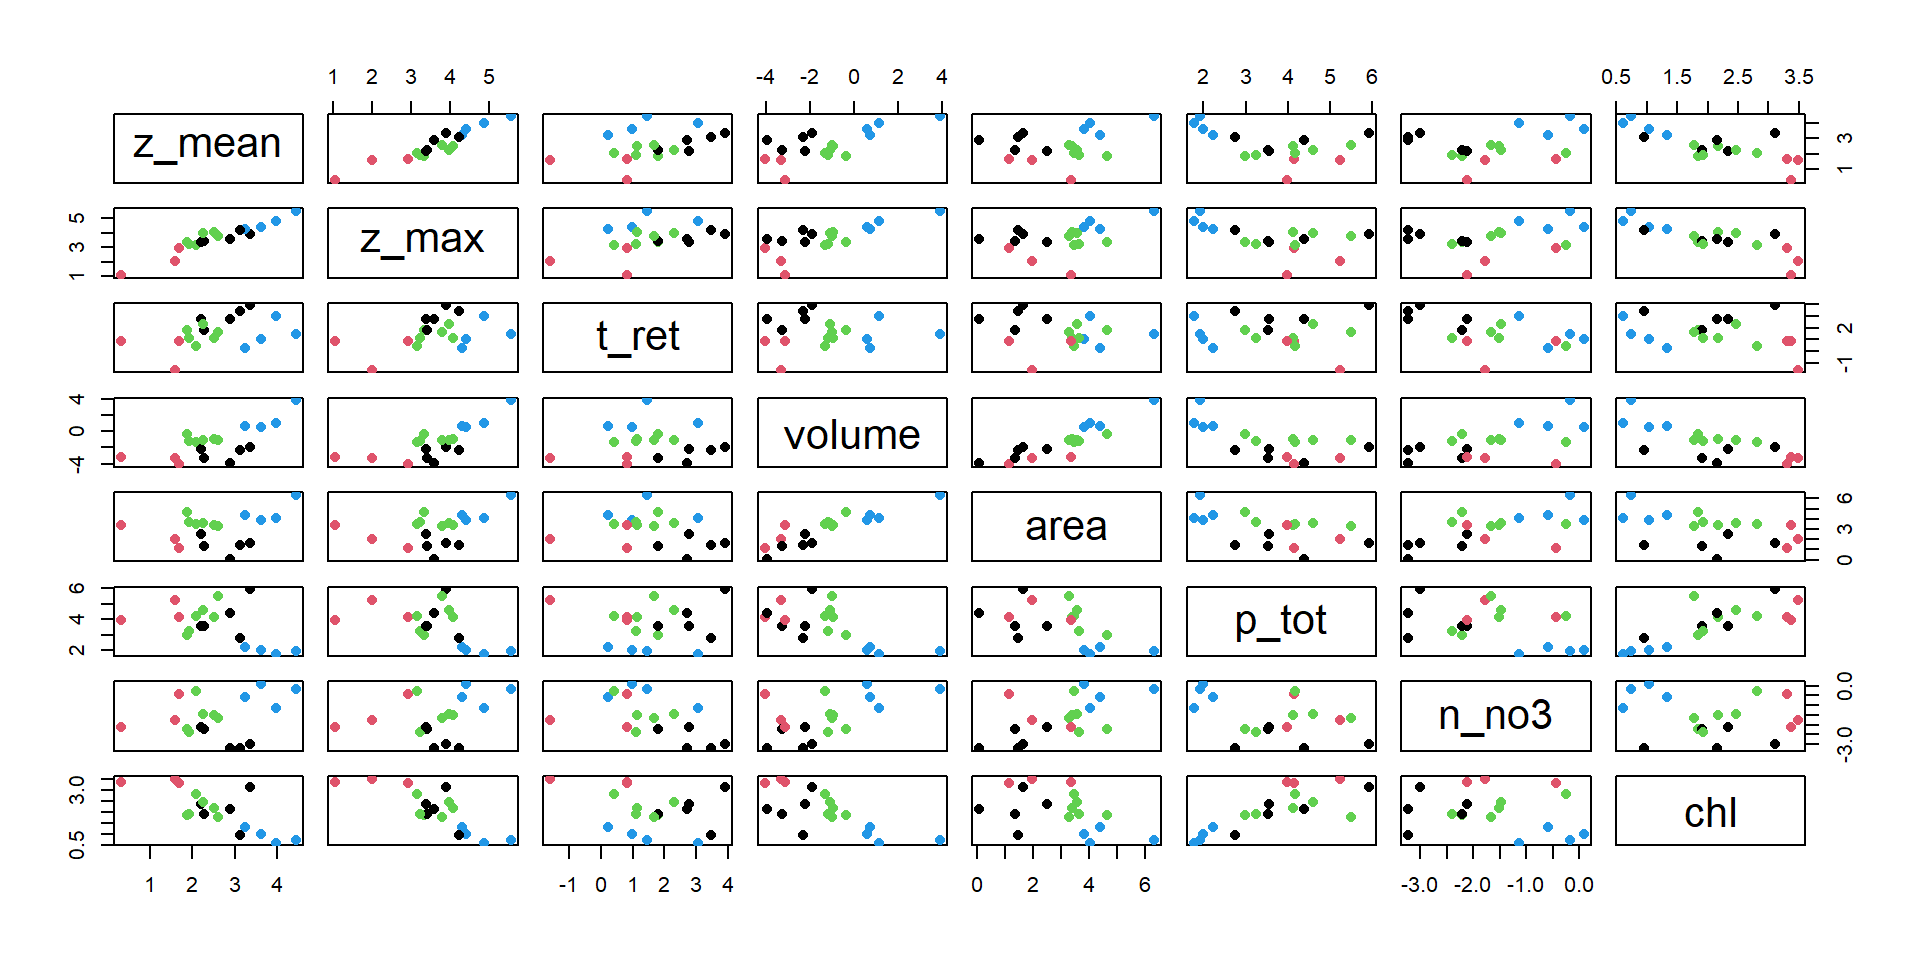
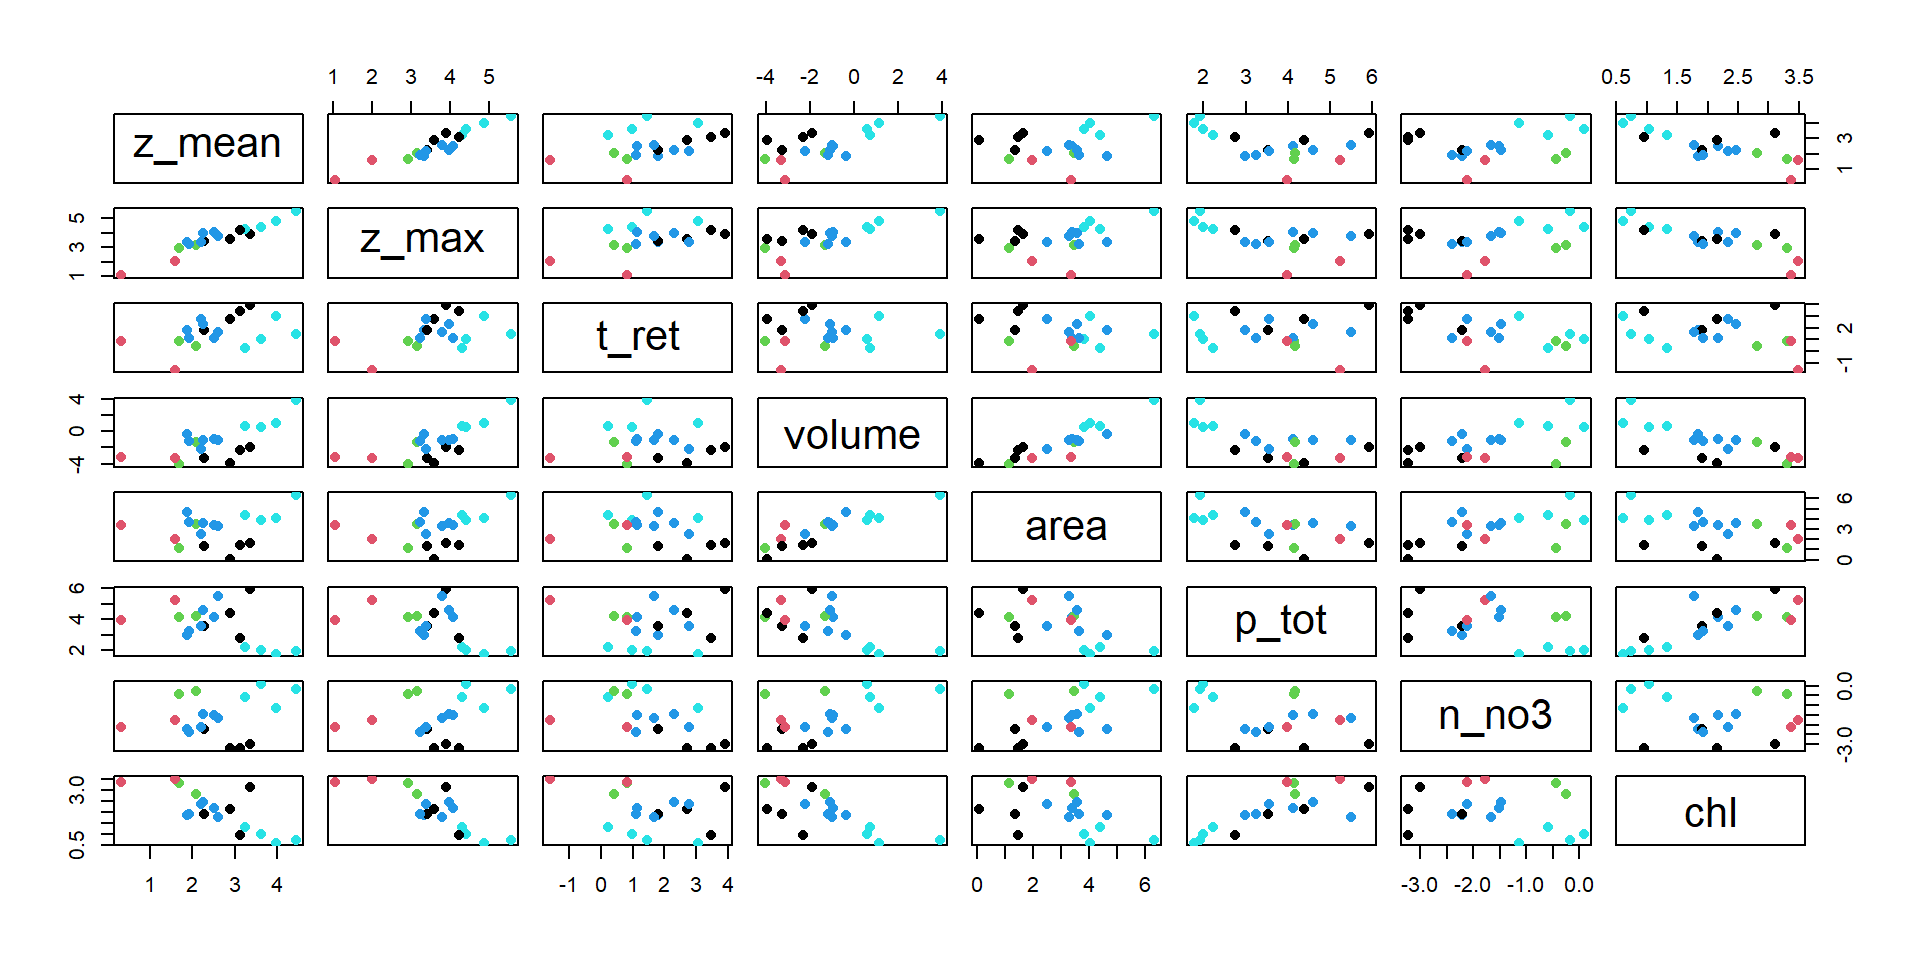
improve formatting

diff --git a/docs/slides/11-multivariate-2.html b/docs/slides/11-multivariate-2.html
@@ -10,7 +10,7 @@
   <meta name="generator" content="quarto-1.2.280">
 
   <meta name="author" content="Thomas Petzoldt">
-  <meta name="dcterms.date" content="2023-11-26">
+  <meta name="dcterms.date" content="2023-11-30">
   <title>Elements of Data Analysis and Statistics - 11-Multivariate methods II</title>
   <meta name="apple-mobile-web-app-capable" content="yes">
   <meta name="apple-mobile-web-app-status-bar-style" content="black-translucent">
@@ -427,7 +427,7 @@ Thomas Petzoldt
 </div>
 </div>
 
-  <p class="date">2023-11-26</p>
+  <p class="date">2023-11-30</p>
 </section>
 <section id="data-sets-and-terms-of-use" class="slide level2">
 <h2>Data sets and terms of use</h2>
@@ -751,7 +751,7 @@ Thomas Petzoldt
 <section id="how-to-analyse-this-kind-of-data" class="slide level2">
 <h2>How to analyse this kind of data?</h2>
 <p><br></p>
-<p>Different approaches</p>
+<p><strong>Different approaches</strong></p>
 <ol type="1">
 <li>Direct interpretation
 <ul>
@@ -1068,7 +1068,7 @@ a^2 + b^2 = c^2 \quad \Rightarrow\quad c = \sqrt{a^2 + b^2} = \sqrt{\Delta x^2 +
 <p>A distance measure is termed metric, if:</p>
 <ol type="1">
 <li><span class="math inline">\(d=0\)</span> applies in the case of equality only, and</li>
-<li>the triangle inequality aapplies.<br> <span class="gray">The indirect route is longer than the direct route</span></li>
+<li>the triangle inequality applies.<br> <span class="gray">The indirect route is longer than the direct route</span></li>
 </ol>
 <p>If one or both of the additional conditions are violated, we speak about <strong>nonmetric</strong> measures and use the term <strong>dissimilarity</strong> instead of distance.</p>
 </section>
@@ -1121,6 +1121,7 @@ a^2 + b^2 = c^2 \quad \Rightarrow\quad c = \sqrt{a^2 + b^2} = \sqrt{\Delta x^2 +
 <section id="common-distance-and-dissimilarity-measures" class="slide level2">
 <h2>Common distance and dissimilarity measures</h2>
 <p><br></p>
+<p><br></p>
 <ul>
 <li><strong>Euclidean</strong> distance: shortest connection between 2 points in space</li>
 <li><strong>Manhattan</strong> distance: around the corner, as in Manhattans grid-like streets</li>
@@ -1133,7 +1134,7 @@ a^2 + b^2 = c^2 \quad \Rightarrow\quad c = \sqrt{a^2 + b^2} = \sqrt{\Delta x^2 +
 </section>
 <section id="distance-and-dissimilarity-of-metric-variables" class="slide level2">
 <h2>Distance and dissimilarity of <strong>metric</strong> variables</h2>
-<p>with <span class="math inline">\(x_{ij}, x_{ik}\)</span> abundance of species <span class="math inline">\(i\)</span> at sites (<span class="math inline">\(j, k\)</span>).</p>
+<p><br></p>
 <p>Euclidean distance:</p>
 <p><span class="math display">\[
 d_{jk} = \sqrt{\sum (x_{ij}-x_{ik})^2}
@@ -1147,6 +1148,9 @@ d_{jk} = \frac{1}{M} \sum\frac{|x_{ij}-x_{ik}|}{\max(x_i)-\min(x_i)}
 <p>Bray-Curtis dissimilarity: <span class="math display">\[
 d_{jk} = \frac{\sum{|x_{ij}-x_{ik}|}}{\sum{(x_{ij}+x_{ik})}}
 \]</span></p>
+<ul>
+<li>with <span class="math inline">\(x_{ij}, x_{ik}\)</span> abundance of species <span class="math inline">\(i\)</span> at sites (<span class="math inline">\(j, k\)</span>).</li>
+</ul>
 </section>
 <section id="distance-and-dissimilarity-of-binary-variables" class="slide level2">
 <h2>Distance and dissimilarity of binary variables</h2>
@@ -1307,12 +1311,13 @@ d_{jk} = \frac{\sum{|x_{ij}-x_{ik}|}}{\sum{(x_{ij}+x_{ik})}}
 <ul>
 <li>works with arbitrary distance measures, e.g.&nbsp;Bray-Curtis dissimilarity</li>
 <li>supported by different packages, e.g.&nbsp;<strong>stats</strong>, <strong>vegan</strong>, <strong>labdsv</strong>, <strong>ecodist</strong>, <strong>ade4</strong> and <strong>ape</strong></li>
-<li>basic version in package <strong>stats</strong> (base R), other ith packages more specialized versions</li>
-<li>basic version has no biplot, can be added done separately</li>
+<li>basic version in package <strong>stats</strong> (base R), other packages with more specialized versions</li>
+<li>basic version has no biplot, can be added separately</li>
 </ul>
 </section>
 <section id="single-matrix-methods-i" class="slide level2">
 <h2>Single matrix methods I</h2>
+<p><br></p>
 <p><strong>PCA:</strong> Principal Components analysis</p>
 <p>▶ input: raw data, covariance or correlation matrix</p>
 <p>(+) basic method, very easy to understand</p>
@@ -1344,7 +1349,7 @@ d_{jk} = \frac{\sum{|x_{ij}-x_{ik}|}}{\sum{(x_{ij}+x_{ik})}}
 <p>(–) results not always identical</p>
 <p>(–) computer intensive, especially for large data sets</p>
 <p><br></p>
-<p><strong>Note:</strong></p>
+<p><strong>Note</strong></p>
 <ul>
 <li>stress is sometimes given as ratio 0…1, sometimes in 0…100%</li>
 <li>differences between packages and statistics programs, e.g.&nbsp;SPSS</li>
@@ -1366,49 +1371,46 @@ d_{jk} = \frac{\sum{|x_{ij}-x_{ik}|}}{\sum{(x_{ij}+x_{ik})}}
 <pre><code>Square root transformation
 Wisconsin double standardization
 Run 0 stress 0.1102424 
-Run 1 stress 0.1102424 
-... Procrustes: rmse 3.033608e-06  max resid 8.041263e-06 
+Run 1 stress 0.1727865 
+Run 2 stress 0.2053265 
+Run 3 stress 0.1102424 
+... Procrustes: rmse 2.211085e-06  max resid 5.485817e-06 
 ... Similar to previous best
-Run 2 stress 0.1102424 
-... Procrustes: rmse 2.731187e-06  max resid 5.963586e-06 
-... Similar to previous best
-Run 3 stress 0.1105543 
-... Procrustes: rmse 0.02421199  max resid 0.07189891 
 Run 4 stress 0.1105543 
-... Procrustes: rmse 0.02425635  max resid 0.07204862 
-Run 5 stress 0.1105543 
-... Procrustes: rmse 0.02429687  max resid 0.07218637 
-Run 6 stress 0.1727865 
-Run 7 stress 0.1105543 
-... Procrustes: rmse 0.02420773  max resid 0.07188688 
-Run 8 stress 0.2433619 
-Run 9 stress 0.1105543 
-... Procrustes: rmse 0.02415121  max resid 0.07170118 
+... Procrustes: rmse 0.02429889  max resid 0.07219465 
+Run 5 stress 0.1105545 
+... Procrustes: rmse 0.02398051  max resid 0.07113215 
+Run 6 stress 0.2261402 
+Run 7 stress 0.2261403 
+Run 8 stress 0.1727865 
+Run 9 stress 0.1102424 
+... Procrustes: rmse 6.322463e-06  max resid 2.007844e-05 
+... Similar to previous best
 Run 10 stress 0.1102424 
-... Procrustes: rmse 1.50777e-05  max resid 3.339566e-05 
+... Procrustes: rmse 4.06611e-06  max resid 1.148284e-05 
 ... Similar to previous best
 Run 11 stress 0.1102424 
-... Procrustes: rmse 1.78221e-05  max resid 5.068668e-05 
+... Procrustes: rmse 5.998878e-06  max resid 1.578528e-05 
 ... Similar to previous best
-Run 12 stress 0.1736879 
-Run 13 stress 0.2345638 
-Run 14 stress 0.1105543 
-... Procrustes: rmse 0.02421068  max resid 0.07189717 
-Run 15 stress 0.1105543 
-... Procrustes: rmse 0.02426446  max resid 0.0720779 
+Run 12 stress 0.1857967 
+Run 13 stress 0.2261402 
+Run 14 stress 0.1855539 
+Run 15 stress 0.1102424 
+... Procrustes: rmse 1.286801e-06  max resid 2.618357e-06 
+... Similar to previous best
 Run 16 stress 0.1102424 
 ... New best solution
-... Procrustes: rmse 1.523443e-06  max resid 3.697954e-06 
+... Procrustes: rmse 1.360374e-06  max resid 2.226751e-06 
 ... Similar to previous best
-Run 17 stress 0.1102424 
-... Procrustes: rmse 5.719866e-06  max resid 1.470382e-05 
-... Similar to previous best
-Run 18 stress 0.1102424 
-... Procrustes: rmse 4.896772e-06  max resid 1.392345e-05 
-... Similar to previous best
-Run 19 stress 0.2247335 
-Run 20 stress 0.2403446 
-*** Best solution repeated 3 times</code></pre>
+Run 17 stress 0.1105543 
+... Procrustes: rmse 0.0242821  max resid 0.07213465 
+Run 18 stress 0.1105543 
+... Procrustes: rmse 0.02422696  max resid 0.0719506 
+Run 19 stress 0.1105543 
+... Procrustes: rmse 0.02421855  max resid 0.07192233 
+Run 20 stress 0.1105543 
+... Procrustes: rmse 0.02425858  max resid 0.07205777 
+*** Best solution repeated 1 times</code></pre>
 </div>
 </div>
 </section>
@@ -1429,7 +1431,7 @@ Distance: bray
 Dimensions: 2 
 Stress:     0.1102424 
 Stress type 1, weak ties
-Best solution was repeated 3 times in 20 tries
+Best solution was repeated 1 time in 20 tries
 The best solution was from try 16 (random start)
 Scaling: centring, PC rotation, halfchange scaling 
 Species: expanded scores based on 'wisconsin(sqrt(bio))' </code></pre>
@@ -1469,7 +1471,7 @@ Species: expanded scores based on 'wisconsin(sqrt(bio))' </code></pre>
 <div class="column" style="width:39%;">
 <ul>
 <li><span class="math inline">\(\theta(d_{ij})\)</span>: observed dissimilarity</li>
-<li><span class="math inline">\(\tilde{d}|{ij}\)</span>: ordination dissimilarity</li>
+<li><span class="math inline">\(\tilde{d}_{ij}\)</span>: ordination dissimilarity</li>
 </ul>
 <p><span class="math display">\[
 S = \sqrt{\frac{\sum_{i \ne j} (\theta(d_{ij}) - \tilde{d}_{ij})^2}{\sum_{i \ne j}  \tilde{d}_{ij}^2}}
@@ -1646,7 +1648,8 @@ Number of permutations: 1000</code></pre>
 </section>
 <section id="pros-and-cons-of-the-methods-discussed-so-far" class="slide level2">
 <h2>Pros and cons of the methods discussed so far</h2>
-<p><strong>PCA</strong>, <strong>CCA</strong></p>
+<p><br></p>
+<p><strong>PCA</strong> (and also <strong>CCA</strong>)</p>
 <p>(+) easy to understand, quick and reproducible</p>
 <p>(+) no non-linear distortion</p>
 <p>(–) but: horseshoe effect possible</p>
@@ -1658,18 +1661,6 @@ Number of permutations: 1000</code></pre>
 <p>(–) bias</p>
 <p>(–) numerical effort, iterative method, local minima</p>
 <p>(–) one-matrix method (no separate matrices for species and environmental factors)</p>
-</section>
-<section id="interpretation-of-the-ca" class="slide level2">
-<h2>Interpretation of the CA</h2>
-<ul>
-<li>biplot with species and environmental factors, note different scaling!
-<ul>
-<li>distance from the origin: <span class="math inline">\(\chi^2\)</span></li>
-<li>species in the middle: either “average species” or poorly explained species.</li>
-<li>species at the very edge: Attention, often rare species</li>
-</ul></li>
-<li>orthogonal angle of species on connecting line origin - centroid of environmental factor</li>
-</ul>
 </section>
 <section id="problems-of-ca-and-pca" class="slide level2">
 <h2>Problems of CA (and PCA)</h2>
@@ -1905,6 +1896,19 @@ Eigenvalues for unconstrained axes:
 <li>It the number of constraints is high compared to the number of observations, the ordination shows again the full variation, i.e.&nbsp;becomes unconstrained.</li>
 </ul>
 </section>
+<section id="interpretation-of-the-cca" class="slide level2">
+<h2>Interpretation of the CCA</h2>
+
+<img data-src="11-multivariate-2_files/figure-revealjs/gau-cca-1.png" width="576" class="r-stretch quarto-figure-center"><ul>
+<li>triplot with observations, species and environmental factors, note different scaling!
+<ul>
+<li>distance from the origin: <span class="math inline">\(\chi^2\)</span></li>
+<li>species in the middle: either “average species” or poorly explained species</li>
+<li>species at the very edge: attention, often rare species</li>
+</ul></li>
+<li>orthogonal angle of species on connecting line origin - centroid of environmental factor</li>
+</ul>
+</section>
 <section id="statistical-significance-anova-like-permutation-test" class="slide level2">
 <h2>Statistical significance: ANOVA like permutation test</h2>
 <p><br></p>
@@ -2051,6 +2055,7 @@ Eigenvalues for unconstrained axes:
 </section>
 <section id="overview" class="slide level2">
 <h2>Overview</h2>
+<p><br></p>
 <ul>
 <li><p>Cluster analysis aims to group data sets in clusters</p></li>
 <li><p>Hierarchical clustering</p>
@@ -2065,7 +2070,7 @@ Eigenvalues for unconstrained axes:
 </ul></li>
 <li><p>Nonhierarchical clustering</p>
 <ul>
-<li>subdivide in a given number of groups</li>
+<li>split into a given number of groups</li>
 <li>usually no dendrogram</li>
 <li>iterative methods</li>
 <li>e.g.&nbsp;k-means, k-centroids</li>
@@ -2336,16 +2341,25 @@ Eigenvalues for unconstrained axes:
 <img data-src="11-multivariate-2_files/figure-revealjs/lake-nmds-colored-1.png" width="960" class="r-stretch"></section>
 <section id="non-hierarchical-clustering" class="slide level2">
 <h2>Non-hierarchical clustering</h2>
-<p>Instead of hierarchical clustering, we can also use a non-hierarchical method, e.g.&nbsp;k-means clustering. This is an iterative method, and avoids the problem that cluster assignment depends on the order of clustering and the agglomeration method.</p>
-<p>Depending on the question, it may be a disadvantage, that the number of clusters needs to be specified beforehand (e.g.&nbsp;from hierarchical clustering) and that we do not get a tree diagramm.</p>
+<p><br></p>
+<ul>
+<li>e.g.&nbsp;k-means clustering</li>
+<li>an iterative method</li>
+<li>avoids the problem that cluster assignment depends on the order of clustering and the agglomeration method</li>
+</ul>
+<p><strong>Disadvantages, depending on the question</strong></p>
+<ul>
+<li>number of clusters needs to be specified beforehand (e.g.&nbsp;from hierarchical clustering)</li>
+<li>no dendrogramm</li>
+</ul>
 <div class="cell">
-<div class="sourceCode cell-code" id="cb33"><pre class="sourceCode r code-with-copy"><code class="sourceCode r"><span id="cb33-1"><a href="#cb33-1" aria-hidden="true" tabindex="-1"></a>cl <span class="ot">&lt;-</span> <span class="fu">kmeans</span>(<span class="fu">scale</span>(<span class="fu">log</span>(lakedata)), <span class="at">centers =</span> <span class="dv">4</span>)</span>
+<div class="sourceCode cell-code" id="cb33"><pre class="sourceCode r code-with-copy"><code class="sourceCode r"><span id="cb33-1"><a href="#cb33-1" aria-hidden="true" tabindex="-1"></a>cl <span class="ot">&lt;-</span> <span class="fu">kmeans</span>(<span class="fu">scale</span>(<span class="fu">log</span>(lakedata)), <span class="at">centers =</span> <span class="dv">5</span>)</span>
 <span id="cb33-2"><a href="#cb33-2" aria-hidden="true" tabindex="-1"></a>cl<span class="sc">$</span>cluster</span></code><button title="Copy to Clipboard" class="code-copy-button"><i class="bi"></i></button></pre></div>
 <div class="cell-output cell-output-stdout">
 <pre><code>  Ammer   Arend   Boden   Chiem   Dober   Muegg   Ploen   Kumme Mueritz   MuerB 
-      4       1       4       4       2       2       3       3       3       1 
+      5       1       5       5       3       2       4       3       4       1 
   Plaue   Sacro   Schar   SchwA   SchwI   Starn   Stech   Stein 
-      3       1       1       3       3       4       1       2 </code></pre>
+      4       1       4       4       4       5       1       2 </code></pre>
 </div>
 </div>
 </section>
@@ -2360,8 +2374,8 @@ Eigenvalues for unconstrained axes:
 <h2>Further reading</h2>
 <p><br></p>
 <ul>
-<li><span class="citation" data-cites="oksanen_multivariate_2010">Oksanen (<a href="#/references" role="doc-biblioref" onclick="">2010</a>)</span></li>
-<li><span class="citation" data-cites="borcard_numerical_2018">Borcard et al. (<a href="#/references" role="doc-biblioref" onclick="">2018</a>)</span></li>
+<li><span class="citation" data-cites="oksanen_multivariate_2015">Oksanen (<a href="#/references" role="doc-biblioref" onclick="">2015</a>)</span> Multivariate analysis of ecological communities in R: Vegan tutorial.</li>
+<li>Borcard, D., Gillet, F., &amp; Legendre, P. <span class="citation" data-cites="borcard_numerical_2018">(<a href="#/references" role="doc-biblioref" onclick="">2018</a>)</span> Numerical ecology with R. Springer International Publishing. <a href="https://doi.org/10.1007/978-3-319-71404-2">https://doi.org/10.1007/978-3-319-71404-2</a></li>
 </ul>
 </section>
 <section id="references" class="slide level2 smaller scrollable">
@@ -2375,8 +2389,8 @@ Eigenvalues for unconstrained axes:
 <div id="ref-borcard_numerical_2018" class="csl-entry" role="doc-biblioentry">
 Borcard, D., Gillet, F., &amp; Legendre, P. (2018). <em>Numerical ecology with <span>R</span></em>. Springer International Publishing. <a href="https://doi.org/10.1007/978-3-319-71404-2">https://doi.org/10.1007/978-3-319-71404-2</a>
 </div>
-<div id="ref-oksanen_multivariate_2010" class="csl-entry" role="doc-biblioentry">
-Oksanen, J. (2010). <em>Multivariate analysis of ecological communities in <span>R</span>: Vegan tutorial</em>.
+<div id="ref-oksanen_multivariate_2015" class="csl-entry" role="doc-biblioentry">
+Oksanen, J. (2015). <em>Multivariate analysis of ecological communities in <span>R</span>: Vegan tutorial</em>.
 </div>
 <div id="ref-UBA2020" class="csl-entry" role="doc-biblioentry">
 Umweltbundesamt. (2021). <em><span class="nocase">Kenndaten ausgewählter Seen Deutschlands</span></em>. <a href="https://www.umweltbundesamt.de/daten/wasser/zustand-der-seen#okologischer-zustand-der-seen">https://www.umweltbundesamt.de/daten/wasser/zustand-der-seen#okologischer-zustand-der-seen</a>

diff --git a/docs/slides/05-classtests.html b/docs/slides/05-classtests.html
@@ -10,7 +10,7 @@
   <meta name="generator" content="quarto-1.2.280">
 
   <meta name="author" content="Thomas Petzoldt">
-  <meta name="dcterms.date" content="2023-11-26">
+  <meta name="dcterms.date" content="2023-11-30">
   <title>Elements of Data Analysis and Statistics - 05-Classical Tests</title>
   <meta name="apple-mobile-web-app-capable" content="yes">
   <meta name="apple-mobile-web-app-status-bar-style" content="black-translucent">
@@ -427,7 +427,7 @@ Thomas Petzoldt
 </div>
 </div>
 
-  <p class="date">2023-11-26</p>
+  <p class="date">2023-11-30</p>
 </section>
 <section>
 <section id="hypotheses-errors-and-the-p-value" class="title-slide slide level1 center">
@@ -1242,7 +1242,7 @@ alternative hypothesis: true mu is not equal to 0</code></pre>
 <td>210</td>
 </tr>
 <tr class="odd">
-<td>Sum {<span class="math inline">\(s_j\)</span>}</td>
+<td>Sum <span class="math inline">\(s_j\)</span></td>
 <td>137</td>
 <td>115</td>
 <td>117</td>
@@ -1935,7 +1935,7 @@ NOTE: n is number in *each* group</code></pre>
 </div>
 <div id="refs" class="references csl-bib-body hanging-indent" data-line-spacing="2" role="doc-bibliography">
 <div id="ref-hubbard_alphabet_2004" class="csl-entry" role="doc-biblioentry">
-Hubbard, R. (2004). Alphabet soup: Blurring the distinctions betweenp’s anda’s in psychological research. <em>Theory &amp; Psychology</em>, <em>14</em>(3), 295–327. <a href="https://doi.org/10.1177/0959354304043638">https://doi.org/10.1177/0959354304043638</a>
+Hubbard, R. (2004). Alphabet soup: Blurring the distinctions between p’s and a’s in psychological research. <em>Theory &amp; Psychology</em>, <em>14</em>(3), 295–327. <a href="https://doi.org/10.1177/0959354304043638">https://doi.org/10.1177/0959354304043638</a>
 </div>
 <div id="ref-zimmerman_note_2004" class="csl-entry" role="doc-biblioentry">
 Zimmerman, D. W. (2004). A note on preliminary tests of equality of variances. <em>British Journal of Mathematical and Statistical Psychology</em>, <em>57</em>(1), 173–181. <a href="https://doi.org/10.1348/000711004849222">https://doi.org/10.1348/000711004849222</a>
